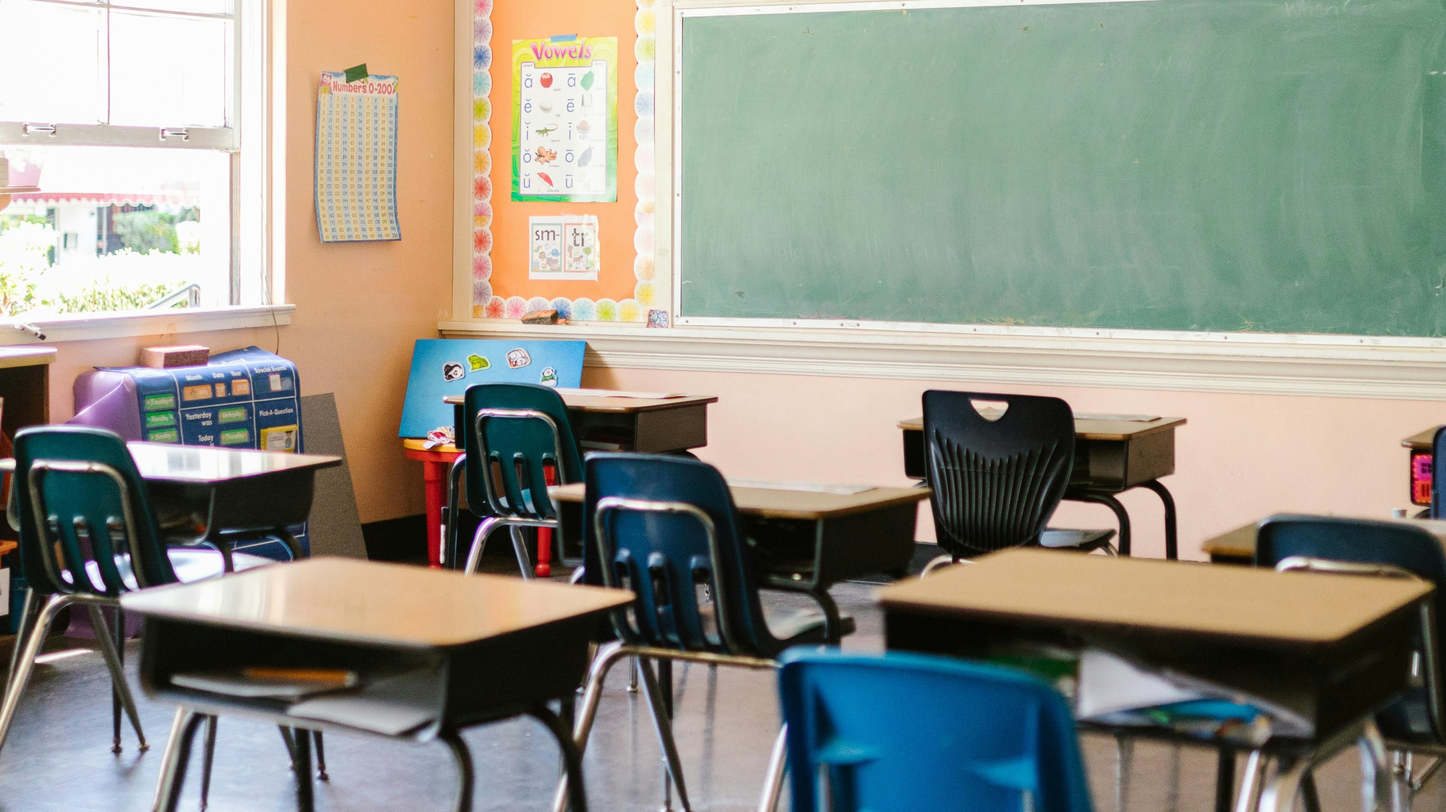
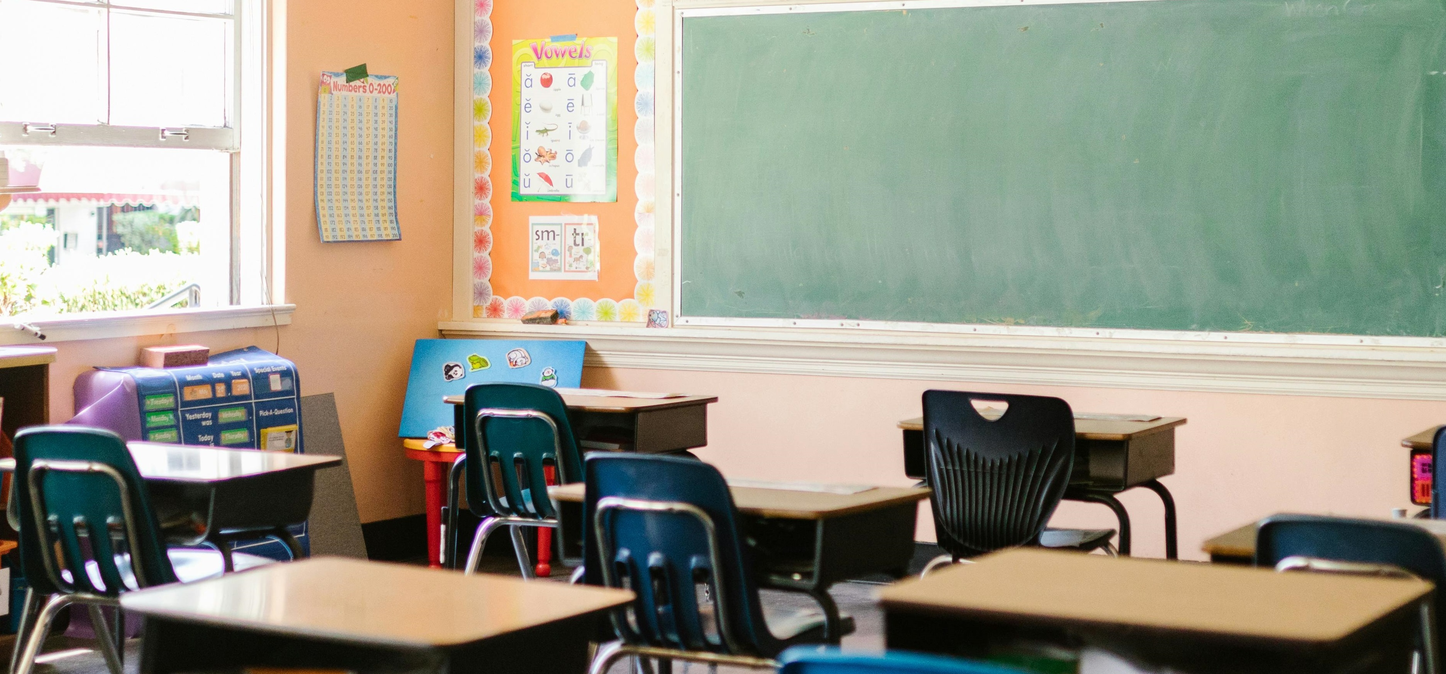
added a gradient to the slider

diff --git a/src/components/SliderHero.jsx b/src/components/SliderHero.jsx
@@ -24,6 +24,7 @@ const SliderHero = () => {
       setIsTransitioning(false);
     }, 1000);
   };
+
   useEffect(() => {
     gsap.registerPlugin(ScrollTrigger);
 
@@ -47,14 +48,34 @@ const SliderHero = () => {
   }, []);
 
   const imageStyles = {
-    transition: 'opacity 2s ease-in-out',
+    transition: 'opacity 1s ease-in-out',
     opacity: isTransitioning ? 0 : 1,
+    position: 'absolute',
+    top: 0,
+    left: 0,
+    minWidth: '100%',
+    minHeight: '100%',
+    objectFit: 'cover',
   };
+  
+
+  const gradientOverlayStyle = {
+    position: 'absolute',
+    left: 0,
+    bottom: 0,
+    width: '100%',
+    height: '200%',
+    background: 'linear-gradient(to top, rgba(15, 12, 21, 1) 0%, rgba(15, 12, 21, 0) 100%)',
+    zIndex: 2,
+  };
+  
+  
 
   return (
-    <div className="slider-hero overflow-hidden">
+    <div className="overflow-hidden relative">
+      <div style={gradientOverlayStyle}></div>
       <img
-        style={imageStyles}
+        style={{ ...imageStyles, position: 'relative', zIndex: 1 }} // Position the image relatively
         ref={imageRef}
         className="scale-[1.7] translate-y-[8%] md:scale-[1.2] pt-20 mt-12 md:-translate-y-[10%] lg:-translate-y-[23%]"
         src={images[currentImageIndex]}

diff --git a/src/components/Hero.jsx b/src/components/Hero.jsx
@@ -22,7 +22,7 @@ const Hero = () => {
       id="hero"
     >
       <div className="container relative" ref={parallaxRef}>
-        <div className="relative z-1 max-w-[62rem] mx-auto text-center mb-[3.875rem] mt-20 md:mb-20 lg:mb-[6.25rem] mt-10">
+        <div className="relative z-1 max-w-[62rem] mx-auto text-center mb-[3.875rem] md:mb-20 lg:mb-[6.25rem]">
         <h1 className="h1 mb-6">
           Meet Your Perfect AI Companion, Say Hello to  {` `}
               <span className="inline-block relative">
